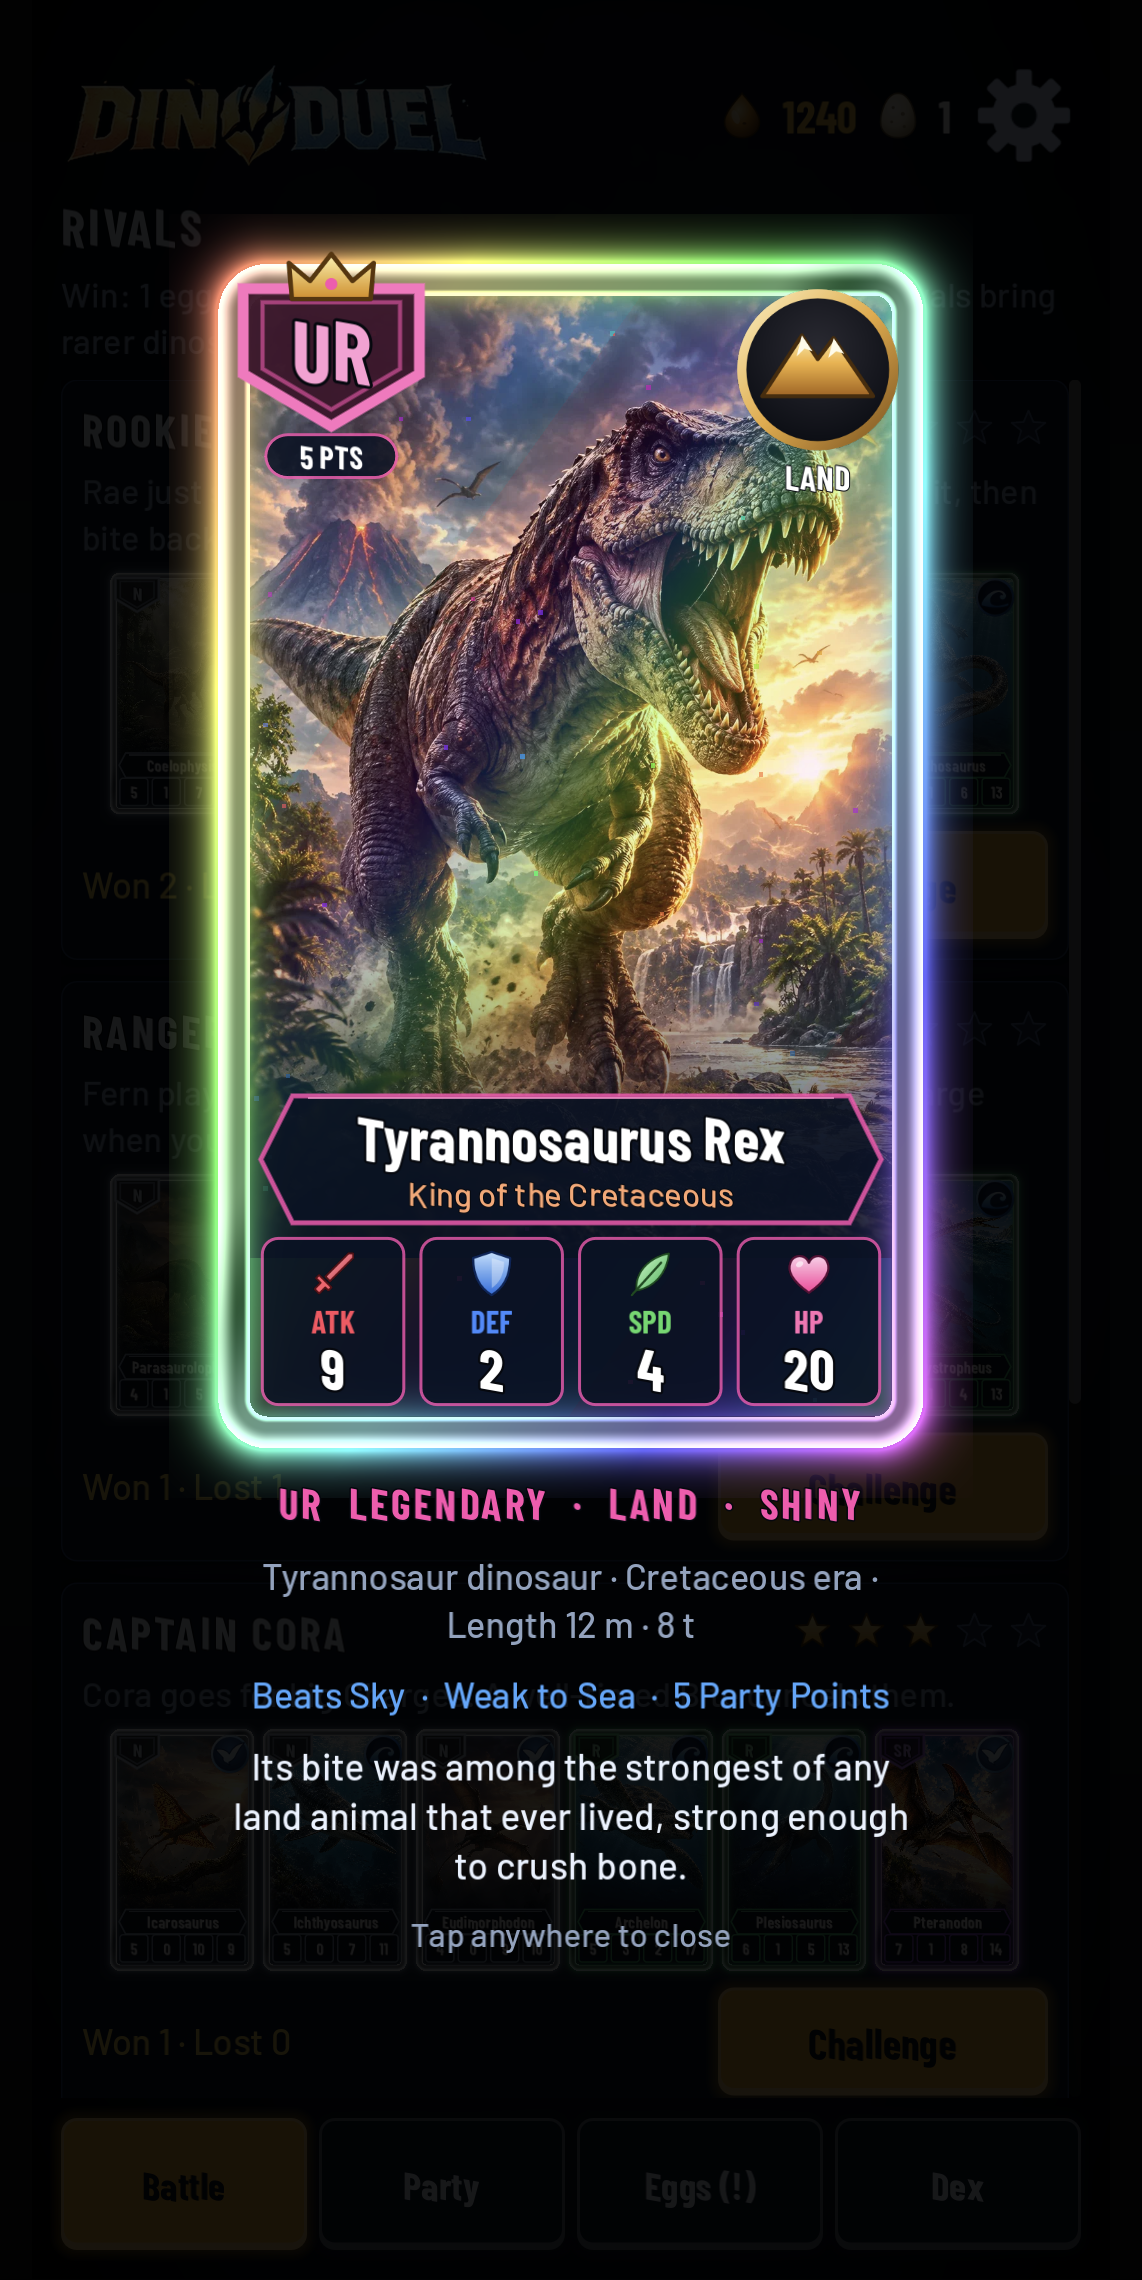
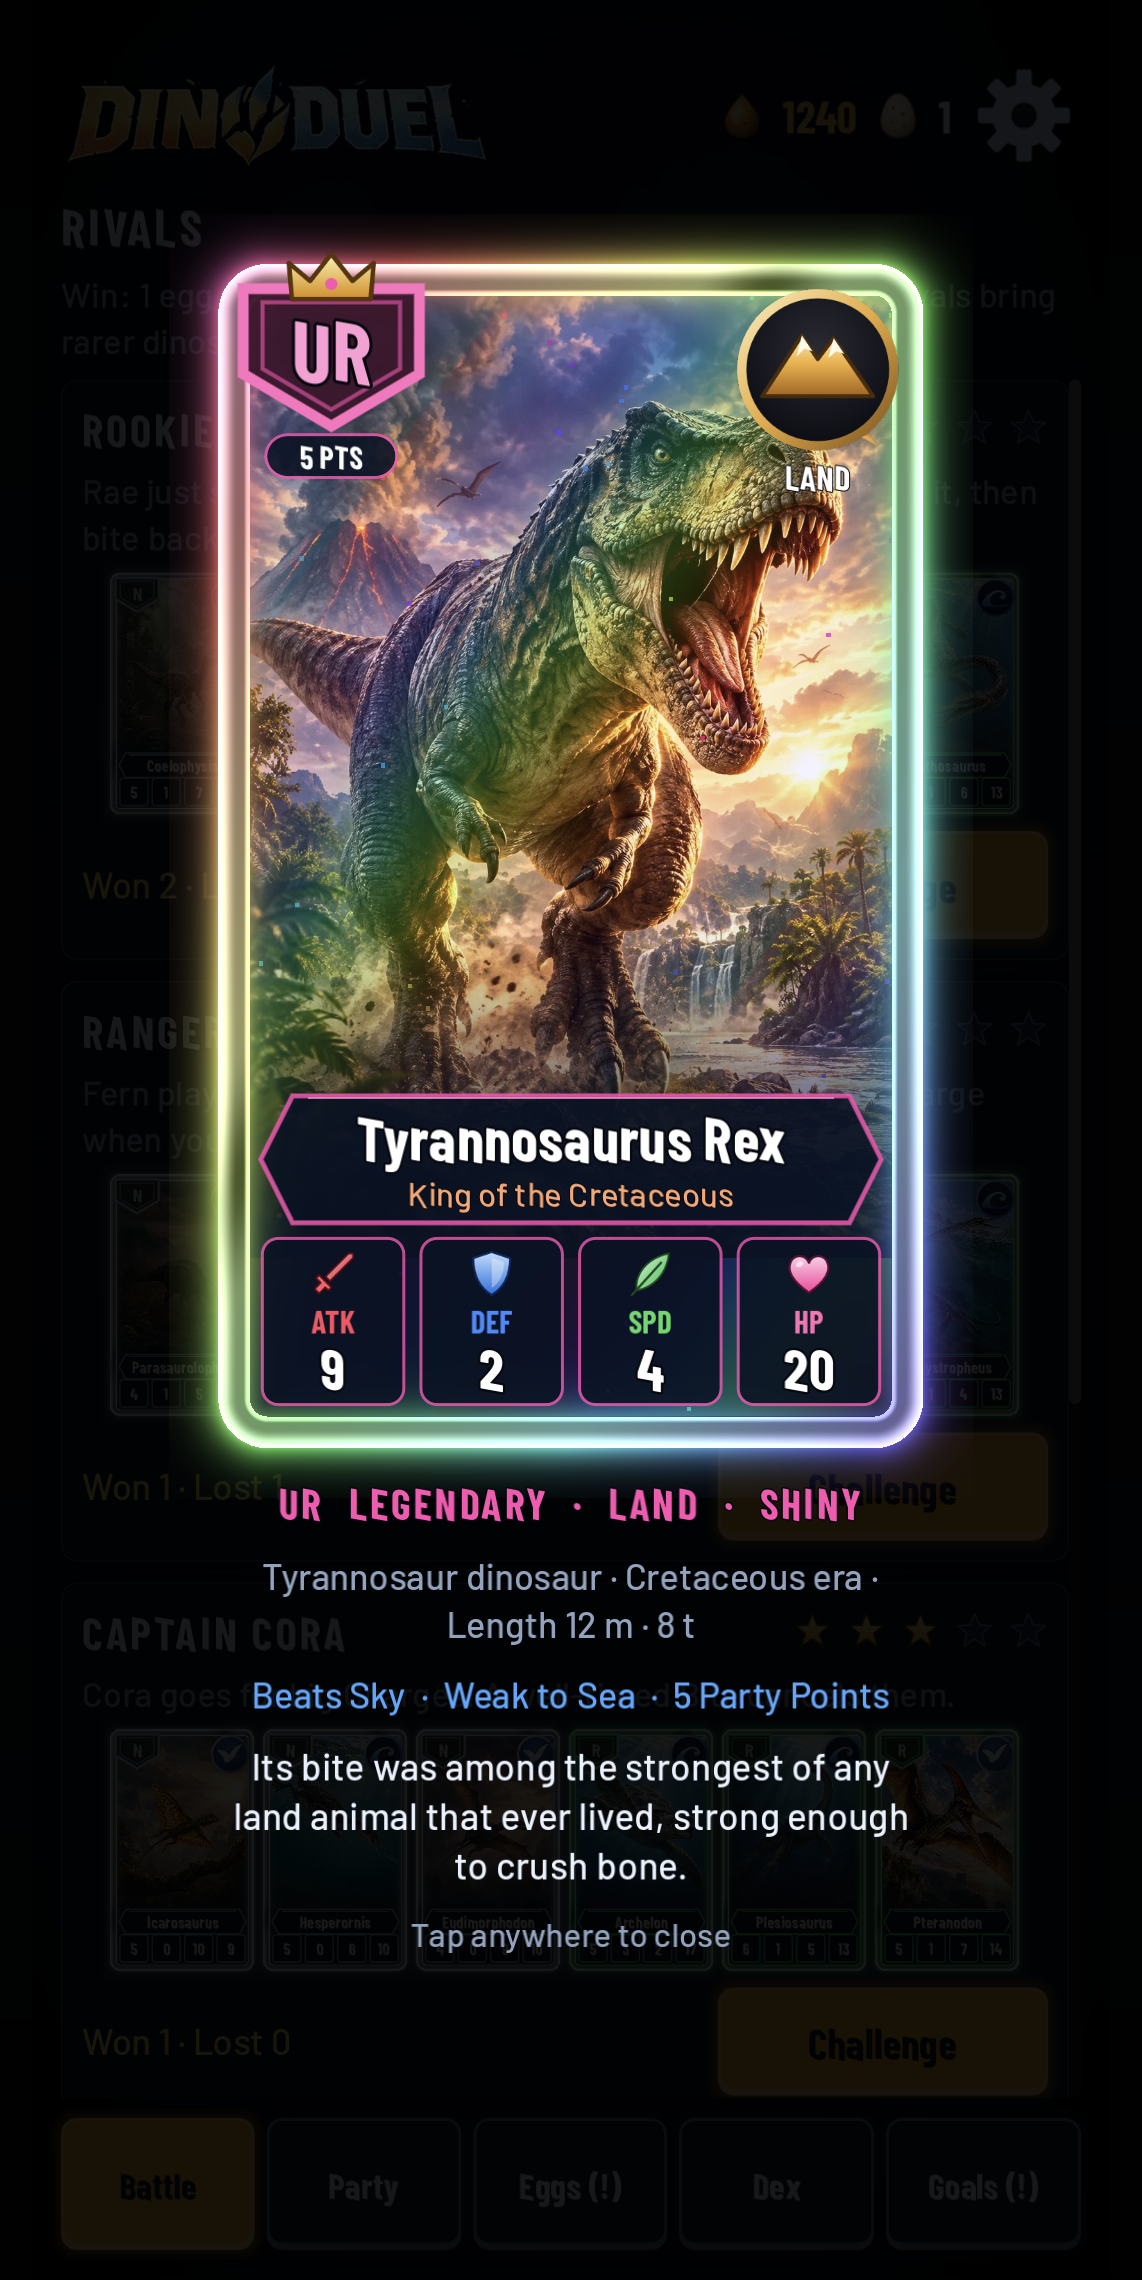
New store screenshots for 0.5.0, plus a Goals one
Eight phone shots: battle vs Rory (move icons, BENCH, K.O.), a new UR
Cymbospondylus hatching, shiny T. rex, partner pick, coached first battle,
Cretaceous Dex, Rivals and Goals. The showcase save now leaves out
Cymbospondylus, which seed 136's first egg hatches with the 45-dino roster.
Website screenshots updated to match.

Changed region(s): [[0.1532, 0.0934, 0.8581, 0.6539]]

diff --git a/docs/index.html b/docs/index.html
@@ -80,7 +80,7 @@
       <h2>Screenshots</h2>
       <div class="shots">
         <img src="site/01_battle.jpg" alt="A battle against Rival Rory" width="420" height="839" loading="lazy">
-        <img src="site/02_hatch_legendary.jpg" alt="Hatching a Legendary Brachiosaurus" width="420" height="839" loading="lazy">
+        <img src="site/02_hatch_legendary.jpg" alt="Hatching a Legendary Cymbospondylus" width="420" height="839" loading="lazy">
         <img src="site/03_card_t_rex_shiny.jpg" alt="The Shiny Tyrannosaurus Rex card" width="420" height="839" loading="lazy">
         <img src="site/04_choose_partner.jpg" alt="Choosing a partner dino" width="420" height="839" loading="lazy">
       </div>

diff --git a/docs/store/STORE_LISTING.md b/docs/store/STORE_LISTING.md
@@ -48,7 +48,7 @@ Draft text and answers for Play Console. Jo edits the wording; character limits 
 |---|---|---|
 | App icon | `assets/branding/app_icon_512.png` | 512 x 512 PNG |
 | Feature graphic | `feature_graphic.png` (rendered by `tools/feature_graphic.tscn`) | 1024 x 500 PNG/JPEG, no alpha |
-| Phone screenshots | `screenshots/01..07_*.png` (1142 x 2280; taken 2026-10-08 for 0.3.0, before painted eggs, Goals, move icons and the 45-dino roster) | 2-8 images, 320-3840 px, at most 2:1 |
+| Phone screenshots | `screenshots/01..08_*.png` (1142 x 2280; retaken 2026-10-09 for 0.5.0) | 2-8 images, 320-3840 px, at most 2:1 |
 
 Screenshots come from the phone with the debug-only `--store-shots` showcase save (see `app/session.gd`), so the DEV button never appears. To retake, put the flags in `user://dev_args.txt` on the phone (adb push + `run-as ... cp`), relaunch, and `adb exec-out screencap -p`. Delete `dev_args.txt` afterwards or every launch uses it.
 
